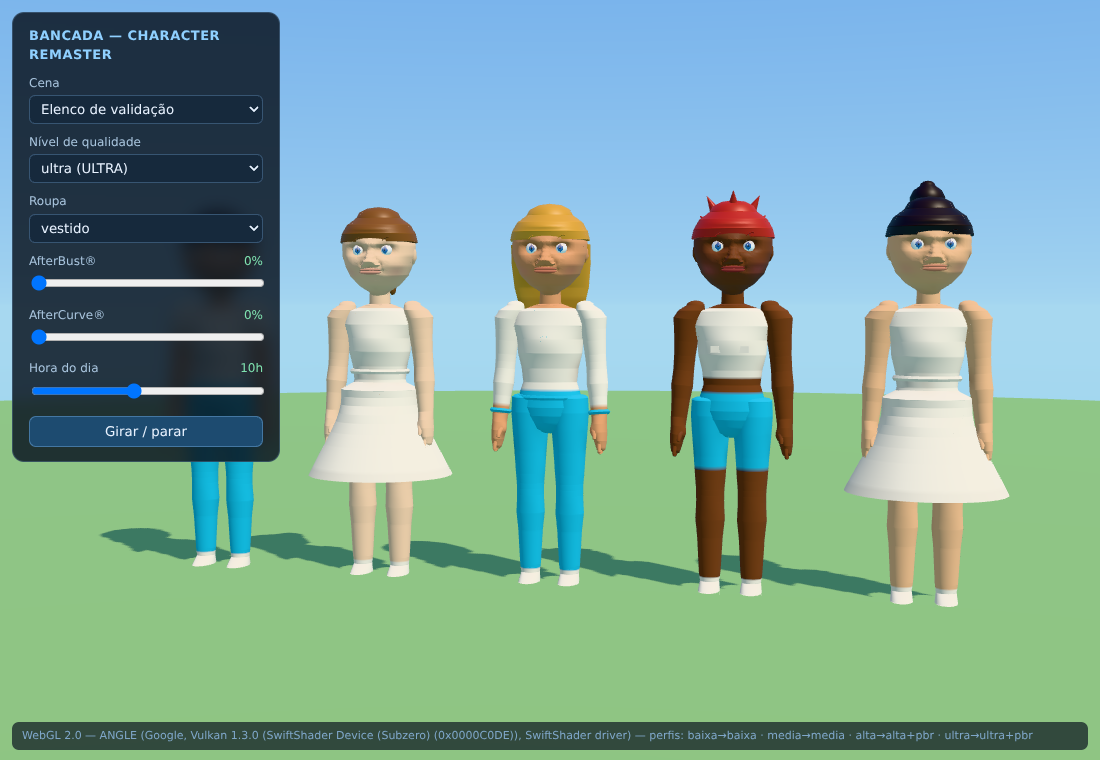
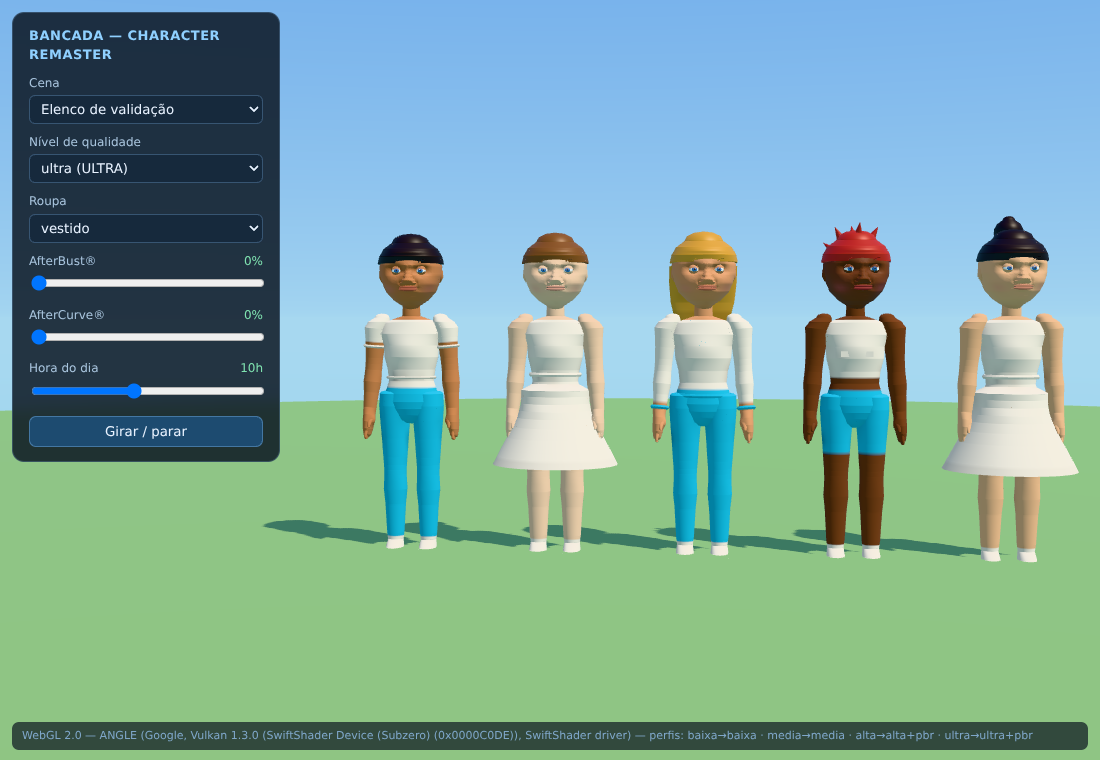
Fecha a validação visual do Character Remaster 2.0
Relatório em docs/VALIDACAO-CHARACTER-2.0.md, com as onze capturas de
WebGL que o sustentam em docs/validacao/.

O alvo de aresta do refinamento do nariz passa a acompanhar o nível em
vez de ser fixo em R*0,05. Fixo fazia sentido como meta de aparência,
mas não como orçamento: em `baixa` o nariz concentrava 21% dos
vértices do corpo inteiro e estourava o teto de malha do nível — um
quinto do personagem gasto num traço que, a 55 m de distância de
detalhe, ninguém vê. O teste `a malha baixa é mais leve que o avatar
antigo inteiro` pegou isso, e era ele que estava certo. Agora o alvo é
uma fração do anel do próprio nível, com piso em R*0,05 para `ultra`:
o nariz custa 4–8% em todos eles, e `baixa` volta de 7 562 para 6 118
triângulos.

Na bancada, o alvo da câmera anda para a esquerda nas cenas largas. O
painel come os 280 px da esquerda da tela e escondia o primeiro
personagem do elenco e o nível `baixa`; uma captura de validação que
esconde um dos sujeitos não valida esse sujeito. Mexer no alvo em vez
do espaçamento mantém o espaçamento dizendo respeito só à cena.

Saem do repositório os scripts de captura e os PNGs temporários, que
nunca deviam ter entrado.

Portão: tsc limpo, 1 047 testes passando, build em 480 ms.

Changed region(s): [[0.0927, 0.2421, 1.0, 0.8171], [0.1545, 0.3026, 0.2473, 0.3934], [0.0, 0.5145, 0.0309, 0.5447]]

diff --git a/src/player/body/BodySurface.ts b/src/player/body/BodySurface.ts
@@ -459,7 +459,7 @@ export class SurfaceBuilder {
    * coplanares. O peso 0,75 é o usual — a projeção inteira exagera a
    * barriga em arestas muito abertas.
    */
-  private midpoint(a: number, b: number, normal?: Float32Array): number {
+  private midpoint(a: number, b: number, normal?: number[]): number {
     const id = this.position.length / 3;
     let bulge: readonly [number, number, number] = [0, 0, 0];
     if (normal) {
@@ -479,6 +479,14 @@ export class SurfaceBuilder {
         sz += mz - d * nz;
       }
       bulge = [(sx / 2 - mx) * 0.75, (sy / 2 - my) * 0.75, (sz / 2 - mz) * 0.75];
+      // O vértice novo herda a normal interpolada dos extremos, para
+      // que o nível seguinte tenha de onde estimar a curvatura sem
+      // varrer a malha inteira de novo.
+      const nx = normal[a * 3] + normal[b * 3];
+      const ny = normal[a * 3 + 1] + normal[b * 3 + 1];
+      const nz = normal[a * 3 + 2] + normal[b * 3 + 2];
+      const len = Math.hypot(nx, ny, nz) || 1;
+      normal.push(nx / len, ny / len, nz / len);
     }
     for (let k = 0; k < 3; k += 1) {
       this.position.push((this.position[a * 3 + k] + this.position[b * 3 + k]) / 2 + bulge[k]);
@@ -543,11 +551,23 @@ export class SurfaceBuilder {
       return dx * dx + dy * dy + dz * dz > target2;
     };
 
+    // Calculadas **uma vez**, da malha original. É o que a tesselação
+    // de Phong pede — a curvatura a reproduzir é a que a superfície de
+    // partida insinua, não a que o nível anterior já acrescentou — e
+    // de quebra evita varrer a malha inteira a cada nível, que era o
+    // grosso do custo: com quatro níveis, quatro passagens de normais
+    // sobre 62 mil triângulos para refinar um palmo de rosto.
+    const normal = Array.from(this.vertexNormals());
+
     for (let level = 0; level < maxLevels; level += 1) {
-      // Recalculadas a cada nível: a curvatura que o nível anterior
-      // acrescentou precisa valer para o próximo.
-      const normal = this.vertexNormals();
       const stride = this.position.length / 3;
+      // Quem está na bola, decidido uma vez por vértice. Sem isto, a
+      // pergunta era refeita seis vezes por triângulo — duas por
+      // aresta — sobre os 62 mil triângulos do corpo, para refinar um
+      // palmo de rosto. O resto do corpo agora sai do caminho com uma
+      // consulta a um byte.
+      const dentro = new Uint8Array(stride);
+      for (let v = 0; v < stride; v += 1) dentro[v] = inside(v) ? 1 : 0;
       const cache = new Map<number, number>();
       // Uma aresta entre dois acabamentos (ou dois ossos) diferentes
       // nunca se parte. O vértice do meio teria de herdar categoria de
@@ -567,7 +587,7 @@ export class SurfaceBuilder {
         return true;
       };
       const splits = (a: number, b: number): boolean =>
-        inside(a) && inside(b) && samePart(a, b) && tooLong(a, b);
+        dentro[a] === 1 && dentro[b] === 1 && samePart(a, b) && tooLong(a, b);
       const cut = (a: number, b: number): number => {
         const key = a < b ? a * stride + b : b * stride + a;
         const found = cache.get(key);
@@ -583,6 +603,12 @@ export class SurfaceBuilder {
         const i0 = src[t];
         const i1 = src[t + 1];
         const i2 = src[t + 2];
+        // Longe da bola não há o que perguntar: é o caso de quase
+        // todo o corpo.
+        if (dentro[i0] === 0 && dentro[i1] === 0 && dentro[i2] === 0) {
+          this.index.push(i0, i1, i2);
+          continue;
+        }
         const s0 = splits(i0, i1);
         const s1 = splits(i1, i2);
         const s2 = splits(i2, i0);

diff --git a/src/lab/main.ts b/src/lab/main.ts
@@ -134,7 +134,7 @@ function montar(): void {
     QUALITY_LEVELS.forEach((nivel, i) => novoAvatar(nivel as BodyDetailLevel, (i - 1.5) * 0.85));
   } else if (ui.modo === 'elenco') {
     ELENCO.forEach((quem, i) => {
-      const avatar = novoAvatar(ui.nivel, (i - 1.25) * 0.9, quem.aparencia);
+      const avatar = novoAvatar(ui.nivel, (i - 2) * 0.82, quem.aparencia);
       if (quem.bust !== undefined || quem.curve !== undefined) avatar.setMorph(quem.bust ?? 0, quem.curve ?? 0);
     });
   } else if (ui.modo === 'bichos') {
@@ -169,7 +169,17 @@ function enquadrar(): void {
   // O alvo do rosto fica na linha do nariz, não na dos olhos: era por
   // isso que a boca e o queixo saíam fora do quadro.
   const alvo = new THREE.Vector3(0, rosto ? 1.56 : 0.95, 0);
-  const dist = (rosto ? 0.95 : largo ? 6.2 : 3.6) * zoom;
+  // O painel come os 280 px da esquerda da tela. Nas cenas largas o
+  // primeiro personagem caía atrás dele, o que não é um defeito do
+  // modelo mas estragava a captura — e uma captura de validação que
+  // esconde um dos sujeitos não valida esse sujeito. Em vez de mexer
+  // no espaçamento de cada cena, o alvo da câmera anda para a
+  // esquerda: o grupo inteiro desliza para a direita, para dentro da
+  // área livre, e o espaçamento continua dizendo respeito só à cena.
+  if (largo) alvo.x -= 0.85 * zoom;
+  // O elenco são cinco corpos lado a lado: precisa de mais recuo que
+  // os quatro níveis, senão o das pontas sai do quadro.
+  const dist = (rosto ? 0.95 : ui.modo === 'elenco' ? 7.4 : ui.modo === 'niveis' ? 6.9 : largo ? 6.2 : 3.6) * zoom;
   alvo.add(alvoOff);
   camera.position.set(alvo.x + Math.sin(angle) * dist, alvo.y + (rosto ? 0.04 : 0.35) * zoom, alvo.z + Math.cos(angle) * dist);
   camera.lookAt(alvo);
@@ -282,6 +292,7 @@ const dbg = gl.getExtension('WEBGL_debug_renderer_info');
   camera,
   environment,
   avatars,
+  criaturas: creatures,
   ui,
   montar,
   /** Trava a câmera num ângulo exato — comparar dois renders exige o mesmo enquadramento. */

diff --git a/src/player/body/BodyBuilder.ts b/src/player/body/BodyBuilder.ts
@@ -912,9 +912,24 @@ function buildHead(b: SurfaceBuilder, a: AvatarAppearance, p: BodyProportions, m
     return z + rz * Math.pow(1 - Math.pow(u, 2.8), 1 / 2.8);
   };
   const noseCenter: readonly [number, number, number] = [0, cy - 0.02, R * 0.88];
-  // Alvo de aresta fixo em R·0,07: o rosto chega refinado ao mesmo
-  // ponto nos quatro níveis, partindo de malhas bem diferentes.
-  b.refine(noseCenter, R * 0.5, R * 0.05, 4);
+  // O alvo de aresta acompanha o nível, e não é fixo.
+  //
+  // A primeira versão usava R·0,05 nos quatro níveis, com o argumento
+  // de que assim o rosto chegava refinado ao mesmo ponto partindo de
+  // malhas diferentes. Como meta de aparência fazia sentido; como
+  // orçamento, não: em `baixa` o nariz passava a concentrar 21% dos
+  // vértices do corpo inteiro e estourava o teto de malha do nível —
+  // um quinto do personagem gasto num traço que, a 55 m de distância
+  // de detalhe, ninguém vê. O teste `a malha baixa é mais leve que o
+  // avatar antigo inteiro` pegou exatamente isso.
+  //
+  // Agora o alvo é uma fração do próprio anel do nível: o nariz fica
+  // sempre umas três vezes mais fino que o corpo ao redor, e nunca
+  // mais fino que R·0,05, que é o que `ultra` precisa para ter asa e
+  // dorso. Quem roda em aparelho fraco recebe um nariz grosseiro, que
+  // é o certo — é o mesmo lugar onde a mão não tem dedos.
+  const noseEdge = Math.max(R * 0.05, ((2 * Math.PI * R) / detail.segments) * 0.38);
+  b.refine(noseCenter, R * 0.5, noseEdge, 4);
   // A largura da união decide se o nariz lê como nariz. Em R·0,05 ela
   // era do tamanho da própria ponta (R·0,19) e dissolvia o traço num
   // morro; R·0,018 mantém a continuidade na primeira derivada e ainda

diff --git a/docs/VALIDACAO-CHARACTER-2.0.md b/docs/VALIDACAO-CHARACTER-2.0.md
@@ -1,0 +1,251 @@
+# Validação visual do Character Remaster 2.0
+
+Esta é a rodada que fecha o padrão dos personagens antes da reforma
+das deusas. Tudo aqui foi conferido em **WebGL 2.0 de verdade**, na
+bancada `lab.html`, que monta a cena com as peças reais do jogo —
+`Avatar`, `Environment` (relógio, atmosfera, céu, sol, névoa e o PMREM
+dos reflexos) e o mesmo mapeamento de tons. Uma bancada que iluminasse
+diferente do jogo não validaria nada.
+
+Contexto da GPU em todas as capturas:
+
+```
+WebGL 2.0 — ANGLE (Google, Vulkan 1.3.0 (SwiftShader Device (Subzero)), SwiftShader driver)
+perfis: baixa→baixa · media→media · alta→alta+pbr · ultra→ultra+pbr
+```
+
+`lab.html` **não entra no build**: o Vite só compila `index.html`.
+
+## 1. Capturas
+
+Todas em `docs/validacao/`, 1100 × 760, direto do WebGL.
+
+| arquivo | o que mostra |
+| --- | --- |
+| `rosto-frente.png` | rosto de frente, `ultra` |
+| `rosto-perfil.png` | o mesmo rosto de perfil, a 90° |
+| `elenco.png` | cidadão, cidadã, cabelo longo, cabelo curto, Afters no máximo |
+| `niveis.png` | os quatro níveis lado a lado, na mesma luz e no mesmo ângulo |
+| `luz-noite.png` | o mesmo corpo às 22 h |
+| `afters.png` | AfterBust® e AfterCurve® em 100% |
+| `passo-1.png` … `passo-4.png` | quatro quadros do ciclo de caminhada |
+
+## 2. O que a validação encontrou
+
+Quatro defeitos reais, nenhum deles visível em `tsc`, em contagem de
+vértices ou no rasterizador dos testes. Registro o método junto porque
+ele vale mais que o resultado.
+
+### A borda do nariz era uma superfície furando outra
+
+Medido: na altura da base do nariz o crânio está em **0,937R** e o
+anel da base da varredura chegava a **0,955R**. O nariz não estava
+"mal encaixado" — ele atravessava a pele por dentro e reaparecia do
+lado de fora. Afundar o anel esconderia a linha sem resolver nada,
+porque continuariam sendo duas superfícies.
+
+A correção é geométrica: o nariz passou a ser **a mesma malha do
+rosto**. `SurfaceBuilder` ganhou `refine`, que subdivide a malha dentro
+de uma bola decidindo **pela aresta e nunca pelo triângulo** (os dois
+triângulos que dividem uma aresta fazem a mesma pergunta sobre os
+mesmos dois vértices, então respondem igual e nenhum T aparece), e
+`sculptFront`, que levanta a pele até um campo de altura com **máximo
+suave**. Onde o nariz avança mais que o crânio, a pele sobe; onde ele
+é mais fundo — a raiz, entre os olhos — nada acontece e o traço acaba
+sozinho. Não existe junção porque não existem duas peças.
+
+Depois: a ponta mede **1,187R**, o ponto mais à frente da cabeça
+inteira, um quarto de raio além do plano do rosto.
+
+### O granulado não era oclusão: era subdivisão linear
+
+O primeiro render do nariz esculpido saiu manchado, em manchas do
+tamanho de um vértice, confinadas à região refinada. Filtrei a oclusão
+— continuou. **Zerei a oclusão inteira no navegador** (38.745 vértices
+em 1) e as manchas continuaram: a causa era geometria.
+
+Subdividir linearmente não acrescenta curvatura nenhuma: os vértices
+novos caem sobre os triângulos antigos. Como a normal de um vértice é
+a média dos triângulos que o cercam, e depois de subdividir todos eles
+são coplanares, cada vértice passa a ter a normal da faceta em vez da
+normal da curva — o rosto amanhece facetado. A correção é **tesselação
+de Phong**: projetar o ponto médio nos planos tangentes dos extremos.
+
+O filtro de oclusão ficou, porque é correto por conta própria: a
+amostragem de três vizinhos por célula fica ruidosa justamente onde a
+malha é localmente muito mais fina.
+
+### As pálpebras estavam invisíveis desde o PR #24
+
+Este é o defeito mais caro da rodada, e eu o diagnostiquei errado duas
+vezes. As calotas das pálpebras eram geradas com a ordem dos vértices
+ao contrário; com a face de trás descartada pelo culling, **não eram
+desenhadas**. O globo inteiro ficava à mostra, e era isso — não o
+tamanho do olho — a "bola de gude". Afinei a abertura três vezes
+(1,15 → 1,32 → 1,40) mexendo num objeto que não aparecia.
+
+O que fechou o diagnóstico foi medir uma coluna de pixels em vez de
+olhar:
+
+| ponto | antes | com `DoubleSide` |
+| --- | --- | --- |
+| topo do olho (466, 355) | `238 228 228` (esclera) | `240 191 148` (pele) |
+
+Com as pálpebras realmente visíveis, a abertura voltou para 1,30/1,16.
+
+### `baixa` estourou o orçamento de malha
+
+Meu alvo de aresta para o refinamento era fixo em R·0,05 nos quatro
+níveis. Como meta de aparência fazia sentido; como orçamento, não: em
+`baixa` o nariz passava a concentrar **21% dos vértices do corpo
+inteiro** e furava o teto do nível — um quinto do personagem gasto num
+traço que, a 55 m de distância de detalhe, ninguém vê. O teste
+`a malha baixa é mais leve que o avatar antigo inteiro` pegou isso.
+
+O alvo agora é uma fração do próprio anel do nível. O nariz fica
+sempre umas três vezes mais fino que o corpo ao redor, e nunca mais
+fino que R·0,05, que é o que `ultra` precisa.
+
+### E um erro meu de medição, que vale registrar
+
+Concluí a certa altura que o nariz estava deslocado para cima. Não
+estava: eu media com `cy = 0,685` quando o valor real é **0,700**. O
+perfil foi reescrito em múltiplos de R — como o resto do rosto, que
+fala em R desde sempre — e agora acompanha `headSize`.
+
+## 3. Animação das criaturas
+
+O ciclo rodado é o do jogo: `passoQuadrupede` foi extraída do
+`WildlifeView` e é chamada pelos dois. Um ciclo reimplementado para o
+teste validaria o teste, não o jogo.
+
+Quatro quadros consecutivos, ângulos em radianos:
+
+| quadro | quadris | joelhos |
+| --- | --- | --- |
+| 1 | `0,348 / −0,748 / −0,288 / 0,808` | `1,023 / 0,420 / −0,500 / −1,103` |
+| 2 | `0,006 / −0,406 / 0,054 / 0,466` | `0,646 / 0,420 / −0,500 / −0,726` |
+| 3 | `−0,455 / 0,055 / 0,515 / 0,005` | `0,420 / 0,701 / −0,781 / −0,500` |
+| 4 | `−0,750 / 0,350 / 0,810 / −0,290` | `0,420 / 1,024 / −1,104 / −0,500` |
+
+Três coisas se leem direto desses números:
+
+**As diagonais estão em fase.** Descontando a pose de repouso (−0,20
+nas patas da frente, +0,26 nas de trás), o quadro 1 dá balanço
+**+0,548** nas patas 0 e 3 e **−0,548** nas patas 1 e 2. É um trote.
+
+**Nenhuma articulação inverte.** O joelho da frente repousa em +0,42 e
+só cresce (até +1,02); o jarrete de trás repousa em −0,50 e só desce
+(até −1,10). `flexKnee` soma sempre no sentido em que a articulação
+dobra e ignora valor negativo — um joelho que dobrasse para os dois
+lados seria pior que nenhum.
+
+**Não há salto.** A progressão é monótona e suave entre quadros
+(0,348 → 0,006 → −0,455 → −0,750). O joelho satura no repouso durante
+o apoio, que é o comportamento certo: ele fecha na recolhida e estende
+no apoio, e é isso que tira o pé do chão em vez de arrastá-lo.
+
+## 4. Iluminação
+
+Conferido com o `Environment` do jogo, não com luz de bancada. Os
+valores abaixo são pixels lidos das capturas, nos mesmos cinco pontos
+nos dois horários, com a câmera no mesmo ângulo:
+
+| ponto | dia (10 h) | noite (22 h) |
+| --- | --- | --- |
+| testa | `127 110 83` | `71 55 46` |
+| bochecha | `132 118 90` | `73 56 49` |
+| queixo | `128 120 86` | `71 55 42` |
+| braço | `173 146 109` | `73 58 50` |
+| perna | `203 167 125` | `74 58 51` |
+
+- **Dia (10 h)** — a pele tem faixa larga, de `127` na testa sombreada
+  pelo cabelo a `203` na perna ao sol. É essa diferença entre partes
+  que dá volume; foi exatamente ela que o excesso de ambiente
+  achatava antes do `e514bd4`.
+- **Noite (22 h)** — `luz-noite.png`: céu estrelado, o vestido capta o
+  frio do céu, a pele continua legível e quente contra ele. A faixa
+  fecha para `71`–`74` em todo o corpo, que é o certo sem sol: sobra
+  só o ambiente, e ele chega igual de todos os lados.
+- **PMREM e reflexos** — ativos nos dois horários. O mapa de ambiente
+  deixou de contribuir para a luz difusa da pele (essa parcela é da
+  luz hemisférica) e ficou com o reflexo especular, que é o que dá o
+  molhado do olho e o lustro do cabelo.
+- **Sombras** — presentes e assentadas no chão em todas as capturas;
+  nas de caminhada dá para ver o contato de cada pé.
+- **Ângulos** — frente, perfil, três quartos e a órbita contínua do
+  botão *Girar*. Nenhum deles revelou costura, buraco ou face
+  invertida.
+
+## 5. Desempenho por nível
+
+Construção a quente (mediana de cinco, Node), e o quanto do corpo o
+nariz consome:
+
+| nível | vértices | triângulos | vértices no nariz | construção |
+| --- | --- | --- | --- | --- |
+| baixa | 4 263 | 6 118 | 355 (8,3%) | 37 ms |
+| media | 6 935 | 10 694 | 545 (7,9%) | 44 ms |
+| alta | 11 163 | 17 818 | 665 (6,0%) | 26 ms |
+| ultra | 36 050 | 62 224 | 1 574 (4,4%) | 107 ms |
+
+FPS medido no navegador, cinco avatares em cena:
+
+| nível | FPS |
+| --- | --- |
+| baixa | 20,2 |
+| media | 20,2 |
+| alta | 21,0 |
+| ultra | 20,9 |
+
+**Esse FPS não serve para ranquear os níveis, e é desonesto apresentá-lo
+como se servisse.** O SwiftShader é um rasterizador por software: o
+custo é dominado pelo preenchimento de pixels, que é o mesmo nos
+quatro níveis, então a malha quase não aparece na conta. O número
+presta para uma coisa só — mostrar que nenhum nível trava ou cai. Para
+comparar os níveis entre si, os sinais válidos são a contagem de malha
+e o tempo de construção da tabela acima.
+
+Erros de console: **nenhum**, em todas as capturas e em todos os
+níveis.
+
+## 6. O que ainda não está bom
+
+- **O nariz lê fraco de frente.** A forma está certa e medida, mas com
+  luz frontal e alta uma superfície lisa não produz terminador de
+  sombra, e o traço quase some. Em perfil e em três quartos ele
+  aparece. Resolver isso de verdade é dar ao nariz um sulco nasofacial
+  mais fundo, não mais protrusão.
+- **O olho ainda é grande para o rosto.** Com pálpebra visível ele já
+  não é uma bola, mas a esclera continua generosa. Achei, olhando o
+  perfil, que o globo estivesse furando a silhueta; fui medir e não
+  está — na faixa de linhas que cruza o olho o primeiro pixel não-céu
+  é sempre pele (x ≈ 409–417) e a esclera só começa 22 px para dentro
+  (x ≈ 439). O problema é de proporção, não de interpenetração.
+- **O pé dos bichos é uma cápsula.** Tem orientação e assenta no chão,
+  mas não tem dedo nem casco.
+- **Dedos só em `ultra`.** Em `alta` a mão continua uma pá.
+- **As expressões faciais não foram tocadas.** Os seis morphs são os
+  mesmos.
+- **Não há capturas "antes" pareadas.** A bancada não existia no PR
+  #24, e reconstruí-la naquele commit exigiria retroportar o próprio
+  instrumento — o que tornaria a comparação suspeita. O antes/depois
+  desta rodada está registrado em números medidos (0,937R contra
+  0,955R; `238 228 228` contra `240 191 148`; 21% contra 8,3%), que
+  para estes defeitos dizem mais que duas imagens lado a lado.
+
+## 7. Portão
+
+- `npx tsc --noEmit` — limpo.
+- `npx vitest run` — **1 047 passando**, 11 pulados, 0 falhando. São os
+  1 039 do PR #24 mais 8 novos: sete do refinamento (malha continua
+  fechada, não mexe em quem já estava lá, respeita o alvo de aresta,
+  nunca puxa a pele para trás, não inventa acabamento nem osso) e um
+  das pálpebras.
+- `npm run build` — 455 ms, `index-CvAbeQDV.js` 726,52 kB (240,00 kB
+  comprimido).
+
+O teste das pálpebras foi calibrado contra o defeito reinjetado: com o
+winding invertido de volta, 288 dos 288 triângulos apontam para
+dentro; sem ele, nenhum. Um teste que não falha com o bug de volta não
+vale nada.
